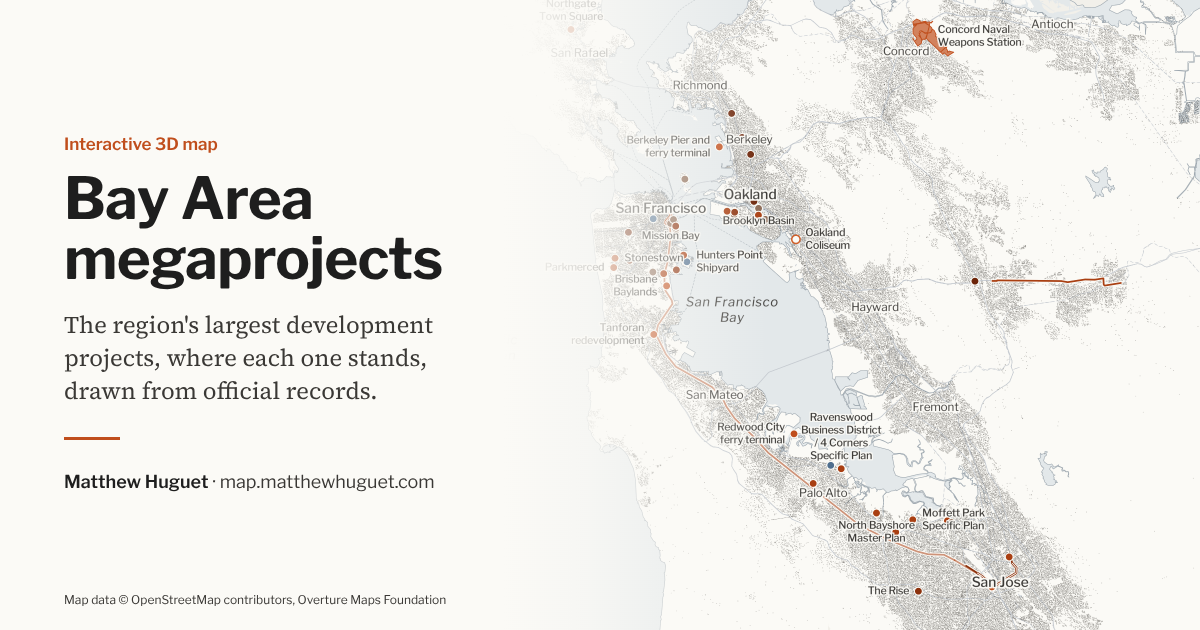
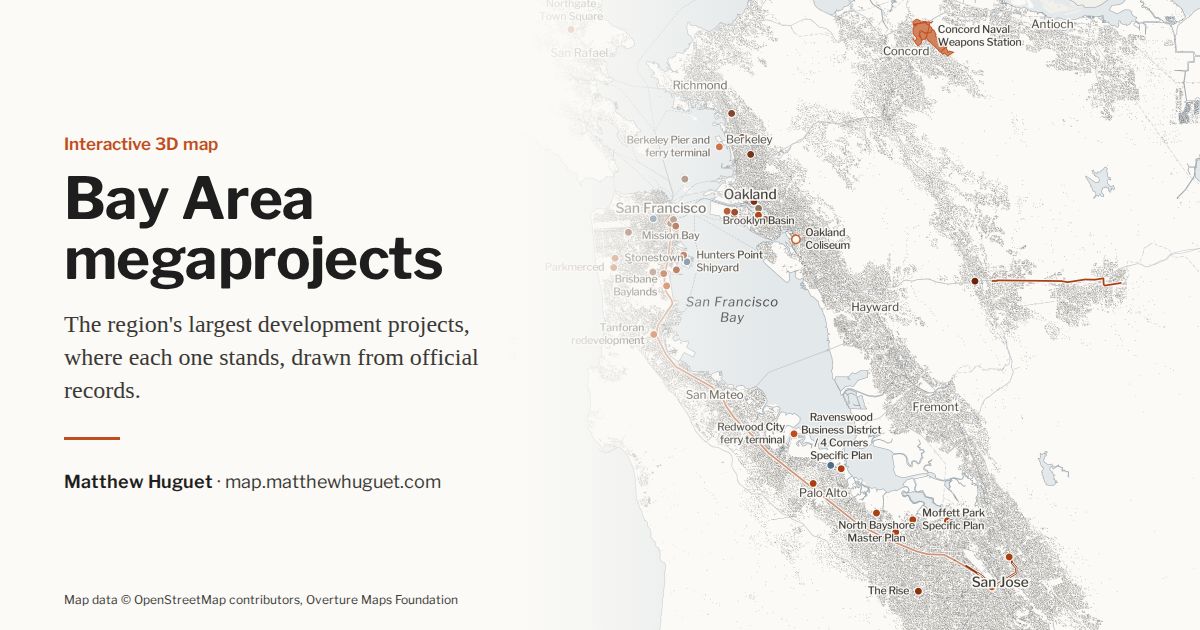
Bigger map buttons, 3:1 field outlines, silent photo alt text
Matthew chose audit proposals A, B and D:
- A: on touch screens the map buttons are 44 px (16 px icons) instead of 32 px with an
  invisible margin.
- B: a new theme role, controlBorder (#949494, 3.0:1 on the panel; WCAG 1.4.11), outlines the
  search box, Area menu, stage filters and suggestion form fields. A theme test keeps it at
  3:1; the share card is redrawn because it records the palette.
- D: photos have alt="", since the figcaption already names them; screen readers read it once.

Claude-Session: https://claude.ai/code/session_017ZKxMeUSMnFgMKvXnxv9zM

diff --git a/src/styles.css b/src/styles.css
@@ -382,7 +382,7 @@ body {
   box-sizing: border-box;
   font: 13px/1.3 var(--font-ui);
   padding: 5px 7px;
-  border: 1px solid var(--color-panel-rule);
+  border: 1px solid var(--color-control-border);
   border-radius: 2px;
   background: var(--color-panel-background);
   color: var(--color-panel-text);
@@ -407,7 +407,7 @@ body {
   display: inline-flex;
   align-items: center;
   gap: 5px;
-  border: 1px solid var(--color-panel-rule);
+  border: 1px solid var(--color-control-border);
   border-radius: 2px;
   background: transparent;
   color: var(--color-panel-text);
@@ -447,7 +447,7 @@ body {
 .project-index .subregion select {
   font: 12px/1.3 var(--font-ui);
   padding: 3px 4px;
-  border: 1px solid var(--color-panel-rule);
+  border: 1px solid var(--color-control-border);
   border-radius: 2px;
   background: var(--color-panel-background);
   color: var(--color-panel-text);
@@ -993,7 +993,7 @@ body {
   /* 16px keeps mobile Safari from zooming into the field. */
   font: 16px/1.35 var(--font-ui);
   padding: 6px 8px;
-  border: 1px solid var(--color-panel-rule);
+  border: 1px solid var(--color-control-border);
   border-radius: 2px;
   background: var(--color-panel-background);
   color: var(--color-panel-text);
@@ -1365,16 +1365,19 @@ body {
     position: absolute;
   }
 
+  /* The map buttons themselves are 44 px, so they need no invisible margin. */
+  .controls button {
+    width: 44px;
+    height: 44px;
+  }
+
   .controls button::after {
-    inset: 0 -6px;
+    content: none;
   }
 
-  .control-group button:first-child::after {
-    top: -4px;
-  }
-
-  .control-group button:last-child::after {
-    bottom: -4px;
+  .controls svg {
+    width: 16px;
+    height: 16px;
   }
 
   .index-toggle::after {

diff --git a/tests/a11y.spec.ts b/tests/a11y.spec.ts
@@ -96,7 +96,7 @@ test('with reduced motion the fly-in jumps and the panel does not slide', async 
   expect(animation).toBe('none');
 });
 
-test('photos load only for the open project, lazily, with alt text and a credit', async ({ page }) => {
+test('photos load only for the open project, lazily, with its caption and a credit', async ({ page }) => {
   const requested: string[] = [];
   page.on('request', (r) => {
     if (/\/photos\//.test(r.url())) requested.push(new URL(r.url()).pathname);
@@ -110,7 +110,9 @@ test('photos load only for the open project, lazily, with alt text and a credit'
   await page.getByRole('button', { name: /^Potrero Power Station/ }).click();
   const img = page.locator('.project-panel .photo img');
   await expect(img).toHaveAttribute('loading', 'lazy');
-  await expect(img).toHaveAttribute('alt', photo.caption);
+  // The figcaption names the photo, so the image itself is silent (alt="") rather than read twice.
+  await expect(img).toHaveAttribute('alt', '');
+  await expect(page.locator('.project-panel .photo figcaption')).toContainText(photo.caption);
   await expect(page.locator('.project-panel .photo .credit')).toContainText('Wikimedia Commons');
   await img.scrollIntoViewIfNeeded();
   await expect.poll(() => requested).toEqual([`/${photo.src}`]);

diff --git a/src/ui/ProjectPanel.tsx b/src/ui/ProjectPanel.tsx
@@ -17,7 +17,7 @@ function PhotoFigure({ photo }: { photo: Photo }) {
   return (
     <figure class="photo">
       <img src={`${import.meta.env.BASE_URL}${photo.src}`} width={photo.width} height={photo.height}
-        alt={photo.caption} loading="lazy" decoding="async"
+        alt="" loading="lazy" decoding="async"
         // Low priority: the sheet's lazy-load margin still fetches it during the fly-in, where the
         // map's tiles matter more on a slow connection.
         fetchpriority="low" />

diff --git a/tests/theme.test.ts b/tests/theme.test.ts
@@ -98,6 +98,10 @@ describe('interface text contrast', () => {
     }
   });
 
+  it('outlines fields and filters at 3:1 on the panel (WCAG 1.4.11)', () => {
+    expect(contrast(defaultTheme.colors.controlBorder, defaultTheme.colors.panelBackground)).toBeGreaterThanOrEqual(3);
+  });
+
   it('gives labels and the byline 4.5:1 on land', () => {
     expect(contrast(defaultTheme.colors.labels, defaultTheme.colors.land)).toBeGreaterThanOrEqual(4.5);
   });

diff --git a/src/ui/StylePanel.tsx b/src/ui/StylePanel.tsx
@@ -30,6 +30,7 @@ const COLOR_LABELS: Record<ColorRole, string> = {
   panelBackground: 'Panel background',
   panelText: 'Panel text',
   panelRule: 'Panel rules',
+  controlBorder: 'Field and filter outlines',
 };
 
 const STAGE_LABELS: Record<StageKey, string> = {

diff --git a/docs/AUDIT-2026-10.md b/docs/AUDIT-2026-10.md
@@ -137,6 +137,17 @@ Severity: **high** blocks a task or fails WCAG AA; **medium** is a WCAG AA risk 
 
 ## Proposals (changes to the look, for Matthew's call)
 
+Matthew chose A, B and D on Oct 16, and they're now done:
+- **A:** on touch screens the map buttons are 44 px, with 16 px icons
+  ([screenshot](screenshots/audit/done-a-controls-44px.png)).
+- **B:** a new theme role, `controlBorder` (#949494, 3.0:1 on the panel), outlines the search box, Area
+  menu, stage filters and the suggestion form's fields ([screenshot](screenshots/audit/done-b-outlines.png)).
+  `tests/theme.test.ts` checks it stays at 3:1.
+- **D:** photos have `alt=""`. The caption below each one already says what it shows, so screen
+  readers now read it once.
+
+C, E, F and G are still open.
+
 **A. 44 px map buttons on touch screens.** Low. The stack grows about 40% taller on a phone. The
 invisible touch area already widens them to 44 px.
 
